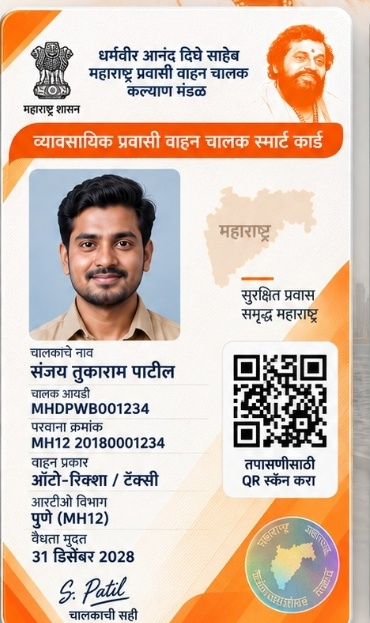
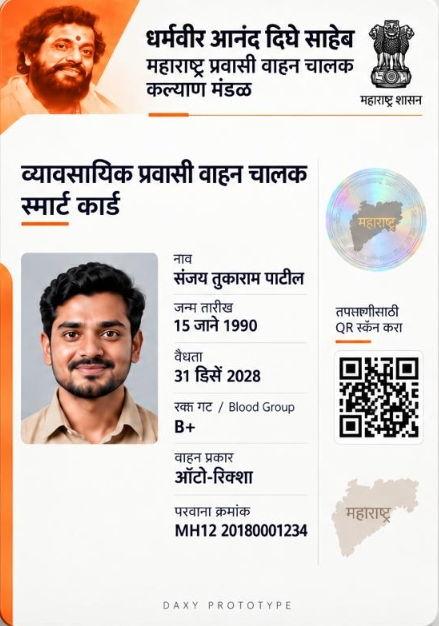
deploy: cac47614764fe9f7215d6f3e30e66ccbfaba18a7

diff --git a/index.html b/index.html
@@ -6,7 +6,10 @@
 <meta name="theme-color" content="#F5F6F3">
 <meta name="color-scheme" content="light">
 <title>SmartCard Member Verification — Daxy Prototype</title>
-<style>:root{--page:#f5f6f3;--surface:#fff;--ink:#111821;--ink-2:#2b3642;--muted:#717b84;--muted-2:#949ca3;--line:#e6e9e4;--line-strong:#d9ddd7;--navy:#102a43;--green:#13784b;--green-bg:#edf8f2;--green-line:#cae8d7;--amber:#a96308;--amber-bg:#fff6e8;--r-lg:20px;--r-md:12px;--shadow:0 10px 28px #1222310e}*{box-sizing:border-box}html{background:var(--page);scroll-behavior:smooth}body{min-height:100vh;color:var(--ink);background:var(--page);-webkit-font-smoothing:antialiased;text-rendering:optimizelegibility;margin:0;font-family:-apple-system,BlinkMacSystemFont,Segoe UI,Inter,Roboto,Noto Sans Devanagari,Arial,sans-serif}button{font:inherit}.page{width:min(100%,520px);padding:0 12px calc(28px + env(safe-area-inset-bottom));margin:0 auto}.tricolor{background:linear-gradient(90deg,#e88b22 0 33.33%,#fff 33.33% 66.66%,#16834f 66.66%);height:3px;margin:0 -12px 12px;box-shadow:0 1px #00000008}.header{grid-template-columns:46px 1fr 46px;align-items:center;gap:10px;padding:4px 2px 14px;display:grid}.emblem{border:1px solid var(--line-strong);background:#fff;border-radius:50%;place-items:center;width:46px;height:46px;display:grid;overflow:hidden}.emblem img{object-fit:contain;width:100%;height:100%}.board{text-align:center;min-width:0}.board .mr{color:var(--navy);letter-spacing:-.15px;font-size:12px;font-weight:800;line-height:1.22}.board .en{color:var(--muted);letter-spacing:.36px;text-transform:uppercase;margin-top:4px;font-size:8px;line-height:1.2}.dighe{object-fit:cover;width:46px;height:46px;box-shadow:0 0 0 1px var(--line-strong);background:#eaece8;border:2px solid #fff;border-radius:50%}.card{background:var(--surface);border:1px solid var(--line);border-radius:var(--r-lg);box-shadow:var(--shadow)}.verify{padding:16px}.verifyTop{border-bottom:1px solid var(--line);justify-content:space-between;align-items:center;gap:10px;padding-bottom:14px;display:flex}.verifiedBadge{color:var(--green);letter-spacing:.15px;text-transform:uppercase;align-items:center;gap:8px;font-size:12px;font-weight:850;display:inline-flex}.check{color:#fff;background:var(--green);width:22px;height:22px;box-shadow:0 0 0 4px var(--green-bg);border-radius:50%;place-items:center;display:grid}.check svg{width:13px;height:13px}.liveRecord{color:var(--muted);font-variant-numeric:tabular-nums;white-space:nowrap;font-size:10px}.identity{grid-template-columns:92px minmax(0,1fr);align-items:flex-start;gap:14px;padding:16px 0 14px;display:grid}.photo{aspect-ratio:3/4;border-radius:var(--r-md);border:1px solid var(--line-strong);background:linear-gradient(145deg,#e9edef,#cbd3d8);flex-shrink:0;width:92px;position:relative;overflow:hidden}.photo img{object-fit:cover;width:100%;height:100%;display:block}.photo svg{width:100%;height:100%;display:none}.photoMark{color:#fff;letter-spacing:.45px;text-transform:uppercase;-webkit-backdrop-filter:blur(8px);backdrop-filter:blur(8px);background:#111821b8;border-radius:6px;padding:4px 5px;font-size:7px;line-height:1;position:absolute;bottom:5px;right:5px}.name{letter-spacing:-.58px;color:#0f1720;font-size:23px;font-weight:820;line-height:1.05}.name-en{color:var(--muted);margin-top:2px;font-size:13.5px;font-weight:600}.idline{color:var(--muted);font-variant-numeric:tabular-nums;margin-top:7px;font-size:11px}.idline b{color:var(--ink-2);font-weight:750}.chips{flex-wrap:wrap;gap:6px;margin-top:11px;display:flex}.chip{border:1px solid var(--line);color:#48545f;background:#fafbf9;border-radius:999px;align-items:center;min-height:25px;padding:0 8px;font-size:9.5px;font-weight:700;display:inline-flex}.chip.active{background:var(--green-bg);border-color:var(--green-line);color:var(--green)}.details{border-top:1px solid var(--line);padding-top:2px}.row{border-bottom:1px solid var(--line);grid-template-columns:1fr 1fr;gap:16px;padding:12px 0;display:grid}.row:last-child{border-bottom:0;padding-bottom:4px}.item{min-width:0}.label{text-transform:uppercase;letter-spacing:.68px;color:var(--muted-2);margin-bottom:6px;font-size:8.5px;font-weight:800;line-height:1}.value{color:var(--ink-2);word-break:break-word;font-size:12.5px;font-weight:730;line-height:1.25}.value.green{color:var(--green)}.integrity{border:1px solid var(--green-line);border-radius:var(--r-md);background:var(--green-bg);align-items:flex-start;gap:10px;margin-top:13px;padding:11px 12px;display:flex}.integrityIcon{width:24px;height:24px;color:var(--green);flex:none;place-items:center;display:grid}.integrityIcon svg{width:18px;height:18px}.integrity strong{color:#125c3d;margin-bottom:2px;font-size:10.5px;display:block}.integrity p{color:#527060;margin:0;font-size:9.5px;line-height:1.35}.videoCard{margin-top:10px;overflow:hidden}.videoHead{justify-content:space-between;align-items:flex-start;gap:12px;padding:14px 15px 12px;display:flex}.videoHead h2{color:var(--navy);letter-spacing:-.12px;margin:0;font-size:13px;line-height:1.2}.videoHead p{color:var(--muted);margin:4px 0 0;font-size:9.5px;line-height:1.35}.officialTag{background:var(--amber-bg);color:var(--amber);text-transform:uppercase;letter-spacing:.35px;border:1px solid #eadcc4;border-radius:999px;flex:none;padding:5px 7px;font-size:8.5px;font-weight:800}.videoStage{aspect-ratio:16/9;background:#08131f;position:relative;overflow:hidden}.videoStage video{object-fit:cover;background:#08131f;width:100%;height:100%;display:block}.poster{color:#fff;cursor:pointer;background:linear-gradient(#07121d0d 15%,#07121ddb 100%);flex-direction:column;justify-content:flex-end;padding:16px;transition:opacity .2s;display:flex;position:absolute;inset:0}.poster.hide{opacity:0;pointer-events:none}.posterEyebrow{text-transform:uppercase;letter-spacing:.8px;color:#c9d5df;margin-bottom:5px;font-size:8.5px;font-weight:750}.posterTitle{letter-spacing:-.25px;max-width:72%;font-size:17px;font-weight:780;line-height:1.08}.play{color:#0b2239;cursor:pointer;background:#fffffff2;border:0;border-radius:50%;place-items:center;width:52px;height:52px;display:grid;position:absolute;top:50%;left:50%;transform:translate(-50%,-50%);box-shadow:0 8px 30px #00000040}.play svg{width:20px;height:20px;margin-left:2px}.videoFoot{justify-content:space-between;align-items:center;gap:14px;padding:12px 15px 13px;display:flex}.videoFoot strong{color:var(--ink-2);font-size:10.5px;display:block}.videoFoot span{color:var(--muted);margin-top:2px;font-size:8.8px;line-height:1.3;display:block}.dynamic{color:var(--navy);white-space:nowrap;font-size:8.5px;font-weight:800}.notice{color:#707980;align-items:flex-start;gap:8px;padding:12px 3px 0;font-size:8.8px;line-height:1.4;display:flex}.notice svg{flex:none;width:15px;height:15px;margin-top:1px}.footer{text-align:center;color:#91989d;padding:20px 8px 0;font-size:8.5px;line-height:1.55}.footer b{color:#69737b;font-weight:750}.prototype{text-transform:uppercase;letter-spacing:.9px;color:#8b928d;border:1px dashed #c7cbc5;border-radius:6px;margin-top:7px;padding:4px 7px;font-size:7.5px;display:inline-block}@media (width>=460px){.page{padding-left:16px;padding-right:16px}.tricolor{margin-left:-16px;margin-right:-16px}.verify{padding:18px}.videoHead,.videoFoot{padding-left:17px;padding-right:17px}}@media (width<=350px){.board .en{display:none}.name{font-size:20px}.identity{grid-template-columns:82px 1fr}.photo{width:82px}.row{gap:10px}.verifiedBadge{font-size:11px}}@media (prefers-reduced-motion:no-preference){.card{animation:.35s both rise}.videoCard{animation-delay:50ms}@keyframes rise{0%{opacity:0;transform:translateY(5px)}to{opacity:1;transform:none}}}@media print{body{background:#fff}.page{max-width:520px}.card{box-shadow:none}.videoCard,.notice{display:none}}</style>
+<link rel="preconnect" href="https://fonts.googleapis.com">
+<link rel="preconnect" href="https://fonts.gstatic.com" crossorigin>
+<link href="https://fonts.googleapis.com/css2?family=Mukta:wght@400;500;600;700;800&family=Noto+Sans+Devanagari:wght@400;500;600;700;800&display=swap" rel="stylesheet">
+<style>:root{--page:#f5f6f3;--surface:#fff;--ink:#111821;--ink-2:#2b3642;--muted:#717b84;--muted-2:#949ca3;--line:#e6e9e4;--line-strong:#d9ddd7;--navy:#102a43;--green:#13784b;--green-bg:#edf8f2;--green-line:#cae8d7;--amber:#a96308;--amber-bg:#fff6e8;--r-lg:20px;--r-md:12px;--shadow:0 10px 28px #1222310e}*{box-sizing:border-box}html{background:var(--page);scroll-behavior:smooth}body{min-height:100vh;color:var(--ink);background:var(--page);-webkit-font-smoothing:antialiased;text-rendering:optimizelegibility;margin:0;font-family:Mukta,Noto Sans Devanagari,-apple-system,BlinkMacSystemFont,Segoe UI,Roboto,sans-serif}button{font:inherit}.page{width:min(100%,960px);padding:0 12px calc(28px + env(safe-area-inset-bottom));margin:0 auto}.tricolor{background:linear-gradient(90deg,#e88b22 0 33.33%,#fff 33.33% 66.66%,#16834f 66.66%);height:3px;margin:0 -12px 12px;box-shadow:0 1px #00000008}.header{grid-template-columns:46px 1fr 46px;align-items:center;gap:10px;width:100%;max-width:520px;margin:0 auto;padding:4px 2px 14px;display:grid}.emblem{border:1px solid var(--line-strong);background:#fff;border-radius:50%;place-items:center;width:46px;height:46px;display:grid;overflow:hidden}.emblem img{object-fit:contain;width:100%;height:100%}.board{text-align:center;min-width:0}.board .mr{color:var(--navy);letter-spacing:-.15px;font-size:12px;font-weight:800;line-height:1.22}.board .en{color:var(--muted);letter-spacing:.36px;text-transform:uppercase;margin-top:4px;font-size:8px;line-height:1.2}.dighe{object-fit:cover;width:46px;height:46px;box-shadow:0 0 0 1px var(--line-strong);background:#eaece8;border:2px solid #fff;border-radius:50%}.card{background:var(--surface);border:1px solid var(--line);border-radius:var(--r-lg);box-shadow:var(--shadow)}.cardToggleWrap{background:#eaece8;border-radius:10px;justify-content:center;gap:3px;width:fit-content;max-width:100%;margin:0 auto 14px;padding:3px;display:flex}.cardTab{color:#525b63;cursor:pointer;white-space:nowrap;background:0 0;border:none;border-radius:8px;align-items:center;gap:5px;padding:6px 12px;font-family:inherit;font-size:11.5px;font-weight:700;transition:background .18s,color .18s;display:flex}.cardTab.active{color:#111827;background:#fff;box-shadow:0 1px 4px #00000014}.cardTab svg{width:13px;height:13px}.cardShowcaseWrap{flex-wrap:wrap;justify-content:center;align-items:flex-start;gap:20px;width:100%;margin:0 auto 16px;display:flex}.smartCardCanvas{aspect-ratio:439/626;box-sizing:border-box;-webkit-user-select:none;user-select:none;background:#fff;border:1px solid #d9dce1;border-radius:clamp(12px,4.1cqw,18px);flex:0 min(100%,439px);width:100%;min-width:0;max-width:439px;position:relative;overflow:hidden;box-shadow:0 10px 28px #11182714,0 2px 6px #11182708;container-type:inline-size}.scDigheCorner{pointer-events:none;z-index:1;width:41.5%;height:22.3%;position:absolute;top:0;left:0}.scDigheCorner img{object-fit:fill;width:100%;height:100%;display:block}.scHeaderBoard{z-index:2;position:absolute;top:2.6%;left:34%;right:16%}.scHeaderLeader{color:#111827;letter-spacing:-.2px;font-size:clamp(13px,4cqw,17.5px);font-weight:800;line-height:1.12}.scHeaderOrg{color:#111827;margin-top:clamp(2px,.6cqw,3px);font-size:clamp(10.5px,3.25cqw,14.2px);font-weight:700;line-height:1.15}.scHeaderLine{background:#f36c21;border-radius:2px;width:clamp(32px,10cqw,44px);height:clamp(2.5px,.8cqw,3.5px);margin-top:clamp(3px,1cqw,4.5px)}.scAshokaEmblem{z-index:2;text-align:right;width:12.5%;position:absolute;top:2.5%;right:4.2%}.scAshokaEmblem img{width:100%;height:auto;display:block}.scTitleWrap{z-index:2;width:63%;position:absolute;top:23.5%;left:6.38%}.scTitleText{color:#111827;letter-spacing:-.3px;font-size:clamp(15.5px,4.85cqw,21.2px);font-weight:800;line-height:1.12}.scTitleLine{background:#f36c21;border-radius:2px;width:clamp(32px,10cqw,44px);height:clamp(2.5px,.8cqw,3.5px);margin-top:clamp(4px,1.2cqw,5.5px)}.scHologram{aspect-ratio:1;object-fit:contain;z-index:2;width:23.2%;display:block;position:absolute;top:23.2%;left:73.2%}.scLeftStripe{z-index:3;background:#f36c21;border-radius:4px 4px 0 clamp(12px,4.1cqw,18px);width:clamp(8px,2.5cqw,11px);position:absolute;top:39.5%;bottom:0;left:0}.scDriverPhoto{aspect-ratio:137/182;z-index:2;background:#eef1f4;border:1px solid #e5e7eb;border-radius:clamp(6px,1.8cqw,8px);width:30.8%;position:absolute;top:39.5%;left:6.38%;overflow:hidden}.scDriverPhoto img{object-fit:cover;width:100%;height:100%;display:block}.scWatermark{opacity:.1;pointer-events:none;z-index:1;width:36%;position:absolute;top:46%;left:36%}.scDetailsCol{z-index:2;flex-direction:column;justify-content:space-between;width:32.8%;height:48.5%;display:flex;position:absolute;top:39.5%;left:39.2%}.scDetailRow{border-bottom:1px solid #f0f2f5;flex-direction:column;padding-bottom:clamp(1px,.4cqw,2.5px);display:flex}.scDetailRow:last-child{border-bottom:none;padding-bottom:0}.scDetailLabel{color:#4b5563;margin-bottom:1px;font-size:clamp(8.5px,2.6cqw,11.5px);font-weight:500;line-height:1.1}.scDetailValue{color:#111827;word-break:break-word;font-size:clamp(11.5px,3.4cqw,15px);font-weight:800;line-height:1.2}.scDetailValue.mono{font-variant-numeric:tabular-nums;font-family:inherit}.scVertDivider{z-index:2;background:#e5e7eb;width:1px;height:48.5%;position:absolute;top:39.5%;left:73%}.scQrWrap{text-align:center;z-index:2;flex-direction:column;align-items:center;width:23%;display:flex;position:absolute;top:41.5%;left:74%}.scQrInstruction{color:#111827;font-size:clamp(9px,2.7cqw,11.5px);font-weight:700;line-height:1.18}.scQrDash{background:#f36c21;border-radius:1px;width:clamp(16px,4.5cqw,20px);height:clamp(2px,.5cqw,2.5px);margin:3px auto 0}.scQrCard{aspect-ratio:1;z-index:2;background:#fff;border:1px solid #e5e7eb;border-radius:clamp(6px,1.8cqw,8px);justify-content:center;align-items:center;width:20.2%;padding:clamp(3px,.8cqw,4px);display:flex;position:absolute;top:49.5%;left:75.5%;box-shadow:0 1px 3px #00000005}.scQrCard img{object-fit:contain;width:100%;height:100%;display:block}.scMahaMap{z-index:2;width:21%;height:auto;display:block;position:absolute;top:73%;left:75%}.scFooterText{text-align:center;color:#9ca3af;letter-spacing:clamp(2.5px,.8cqw,3.8px);z-index:2;font-size:clamp(6.5px,1.8cqw,8px);font-weight:700;position:absolute;bottom:2.2%;left:0;right:0}.scBackHeaderBoard{z-index:2;position:absolute;top:2.6%;left:6.38%;right:16%}.scBackFeatures{z-index:2;flex-direction:column;justify-content:space-between;height:53.5%;display:flex;position:absolute;top:20.5%;left:6.38%;right:4.2%}.scBackRow{border-bottom:1px solid #f0f2f5;flex:1;align-items:center;gap:clamp(8px,2.6cqw,12px);padding-bottom:clamp(6px,1.6cqw,7.5px);display:flex}.scBackRow:last-child{border-bottom:none}.scBackIcon{color:#f36c21;background:#fed;border-radius:clamp(8px,2.5cqw,11px);flex:none;justify-content:center;align-items:center;width:clamp(34px,10.2cqw,45px);height:clamp(34px,10.2cqw,45px);display:flex}.scBackIcon svg{width:55%;height:55%;display:block}.scBackContent{flex:1;min-width:0}.scBackTitle{color:#111827;font-size:clamp(12px,3.6cqw,16px);font-weight:800;line-height:1.15}.scBackSub{color:#4b5563;margin-top:clamp(1px,.4cqw,2px);font-size:clamp(9px,2.7cqw,12px);font-weight:500;line-height:1.15}.scBackRight{text-align:center;border-left:1px solid #e5e7eb;flex:none;padding-left:clamp(8px,2.5cqw,12px)}.scBackRight.emergency{min-width:clamp(60px,17cqw,75px)}.scBackRight.personal{min-width:clamp(80px,24cqw,105px)}.scEmerNum{color:#f36c21;font-size:clamp(16px,4.8cqw,21px);font-weight:800;line-height:1}.scEmerLabel{color:#f36c21;margin-top:2px;font-size:clamp(9px,2.7cqw,12px);font-weight:700}.scPersonalNum{color:#111827;font-variant-numeric:tabular-nums;font-size:clamp(12.5px,3.7cqw,16px);font-weight:800;line-height:1}.scBridgeGraphic{z-index:2;height:18%;position:absolute;bottom:4.2%;left:0;right:0;overflow:hidden}.scBridgeGraphic img{object-fit:cover;object-position:center bottom;width:100%;height:100%;display:block}.scBackFooter{text-align:center;color:#9ca3af;letter-spacing:clamp(1px,.3cqw,1.5px);z-index:2;font-size:clamp(6px,1.7cqw,7.5px);font-weight:600;position:absolute;bottom:1.6%;left:0;right:0}.scBackFooter span{color:#d1d5db;margin:0 4px}.integrity{border:1px solid var(--green-line);border-radius:var(--r-md);background:var(--green-bg);align-items:flex-start;gap:10px;margin-top:13px;padding:11px 12px;display:flex}.integrityIcon{width:24px;height:24px;color:var(--green);flex:none;place-items:center;display:grid}.integrityIcon svg{width:18px;height:18px}.integrity strong{color:#125c3d;margin-bottom:2px;font-size:10.5px;display:block}.integrity p{color:#527060;margin:0;font-size:9.5px;line-height:1.35}.videoCard{margin-top:10px;overflow:hidden}.videoHead{justify-content:space-between;align-items:flex-start;gap:12px;padding:14px 15px 12px;display:flex}.videoHead h2{color:var(--navy);letter-spacing:-.12px;margin:0;font-size:13px;line-height:1.2}.videoHead p{color:var(--muted);margin:4px 0 0;font-size:9.5px;line-height:1.35}.officialTag{background:var(--amber-bg);color:var(--amber);text-transform:uppercase;letter-spacing:.35px;border:1px solid #eadcc4;border-radius:999px;flex:none;padding:5px 7px;font-size:8.5px;font-weight:800}.videoStage{aspect-ratio:16/9;background:#08131f;position:relative;overflow:hidden}.videoStage video{object-fit:cover;background:#08131f;width:100%;height:100%;display:block}.poster{color:#fff;cursor:pointer;background:linear-gradient(#07121d0d 15%,#07121ddb 100%);flex-direction:column;justify-content:flex-end;padding:16px;transition:opacity .2s;display:flex;position:absolute;inset:0}.poster.hide{opacity:0;pointer-events:none}.posterEyebrow{text-transform:uppercase;letter-spacing:.8px;color:#c9d5df;margin-bottom:5px;font-size:8.5px;font-weight:750}.posterTitle{letter-spacing:-.25px;max-width:72%;font-size:17px;font-weight:780;line-height:1.08}.play{color:#0b2239;cursor:pointer;background:#fffffff2;border:0;border-radius:50%;place-items:center;width:52px;height:52px;display:grid;position:absolute;top:50%;left:50%;transform:translate(-50%,-50%);box-shadow:0 8px 30px #00000040}.play svg{width:20px;height:20px;margin-left:2px}.videoFoot{justify-content:space-between;align-items:center;gap:14px;padding:12px 15px 13px;display:flex}.videoFoot strong{color:var(--ink-2);font-size:10.5px;display:block}.videoFoot span{color:var(--muted);margin-top:2px;font-size:8.8px;line-height:1.3;display:block}.dynamic{color:var(--navy);white-space:nowrap;font-size:8.5px;font-weight:800}.notice{color:#707980;align-items:flex-start;gap:8px;padding:12px 3px 0;font-size:8.8px;line-height:1.4;display:flex}.notice svg{flex:none;width:15px;height:15px;margin-top:1px}.footer{text-align:center;color:#91989d;padding:20px 8px 0;font-size:8.5px;line-height:1.55}.footer b{color:#69737b;font-weight:750}.prototype{text-transform:uppercase;letter-spacing:.9px;color:#8b928d;border:1px dashed #c7cbc5;border-radius:6px;margin-top:7px;padding:4px 7px;font-size:7.5px;display:inline-block}@media (width>=460px){.page{padding-left:16px;padding-right:16px}.tricolor{margin-left:-16px;margin-right:-16px}.verify{padding:18px}.videoHead,.videoFoot{padding-left:17px;padding-right:17px}}@media (width<=350px){.board .en{display:none}.name{font-size:20px}.identity{grid-template-columns:82px 1fr}.photo{width:82px}.row{gap:10px}.verifiedBadge{font-size:11px}}@media print{body{background:#fff}.page{max-width:520px}.card{box-shadow:none}.videoCard,.notice{display:none}}</style>
 </head>
 <body>
 <main class="page">
@@ -23,56 +26,179 @@
     <img class="dighe" src="./assets/anand-dighe-poster-CMV5kaGp.jpg" alt="Dharmaveer Anand Dighe Saheb" onerror="this.src='https://images.loksattaimg.com/2023/01/Dharmaveer-Anand-Dighe-Birth-Anniversary-13.jpg'" referrerpolicy="no-referrer">
   </header>
 
-  <section class="card verify" aria-label="SmartCard member verification">
-    <div class="verifyTop">
-      <div class="verifiedBadge">
-        <span class="check"><svg viewBox="0 0 24 24" fill="none" stroke="currentColor" stroke-width="3" stroke-linecap="round" stroke-linejoin="round"><path d="M5 12.5 9.2 17 19 7"/></svg></span>
-        <span id="verifyLabel">Verified Member</span>
-      </div>
-      <div class="liveRecord" id="verifyTime">Verified now</div>
-    </div>
+  <!-- Card View Mode Selector (Both Sides / Front / Back) -->
+  <div class="cardToggleWrap" role="tablist" aria-label="स्मार्ट कार्ड बाजू निवडा">
+    <button type="button" class="cardTab active" id="tabBoth" role="tab" aria-selected="true" onclick="switchCardMode('both')">
+      <svg viewBox="0 0 24 24" fill="none" stroke="currentColor" stroke-width="2"><rect x="2" y="5" width="9" height="14" rx="1.5"/><rect x="13" y="5" width="9" height="14" rx="1.5"/></svg>
+      दोन्ही बाजू (Both Sides)
+    </button>
+    <button type="button" class="cardTab" id="tabFront" role="tab" aria-selected="false" onclick="switchCardMode('front')">
+      <svg viewBox="0 0 24 24" fill="none" stroke="currentColor" stroke-width="2"><rect x="3" y="4" width="18" height="16" rx="2"/><path d="M7 8h10M7 12h4M7 16h6"/></svg>
+      समोरची बाजू (Front)
+    </button>
+    <button type="button" class="cardTab" id="tabBack" role="tab" aria-selected="false" onclick="switchCardMode('back')">
+      <svg viewBox="0 0 24 24" fill="none" stroke="currentColor" stroke-width="2"><rect x="3" y="4" width="18" height="16" rx="2"/><path d="m9 12 2 2 4-4"/></svg>
+      मागील बाजू (Back)
+    </button>
+  </div>
 
-    <div class="identity">
-      <div class="photo" aria-label="Member photograph">
-        <img id="memberPhoto" src="./assets/driver-photo-DT9j2TrH.jpg" alt="Member photograph" onerror="this.src='./public/assets/driver-photo.jpg'">
-        <span class="photoMark">Photo ID</span>
+  <!-- Rebuilt Digital ID Card Showcase: Front and Back Side by Side (1:1 Reference Match) -->
+  <div class="cardShowcaseWrap" id="cardShowcase">
+    <!-- FRONT CARD -->
+    <section class="card smartCardCanvas" id="frontCard" aria-label="व्यावसायिक प्रवासी वाहन चालक स्मार्ट कार्ड (समोरची बाजू)">
+      <div class="scDigheCorner">
+        <img src="./assets/card-dighe-corner-CvaEag45.png" alt="धर्मवीर आनंद दिघे साहेब" onerror="this.src='./public/assets/card-dighe-corner.png'">
       </div>
-      <div>
-        <div class="name" id="name">संजय तुकाराम पाटील</div>
-        <div class="name-en" id="nameEn">Sanjay Tukaram Patil</div>
-        <div class="idline">SmartCard ID&nbsp; <b id="member">MHDPWB001234</b></div>
-        <div class="chips">
-          <span class="chip active" id="membership">Active</span>
-          <span class="chip" id="vehicleType">ऑटो-रिक्षा / टॅक्सी</span>
-          <span class="chip" id="districtChip">पुणे (MH12)</span>
+      <div class="scHeaderBoard">
+        <div class="scHeaderLeader">धर्मवीर आनंद दिघे साहेब</div>
+        <div class="scHeaderOrg">महाराष्ट्र प्रवासी वाहन चालक<br>कल्याण मंडळ</div>
+        <div class="scHeaderLine" aria-hidden="true"></div>
+      </div>
+      <div class="scAshokaEmblem">
+        <img src="./assets/ashoka-emblem-jx7s1bLX.png" alt="महाराष्ट्र शासन" onerror="this.src='./public/assets/ashoka-emblem.png'">
+      </div>
+      <div class="scTitleWrap">
+        <div class="scTitleText">व्यावसायिक प्रवासी वाहन चालक<br>स्मार्ट कार्ड</div>
+        <div class="scTitleLine" aria-hidden="true"></div>
+      </div>
+      <img class="scHologram" src="./assets/card-hologram-CwZs2oBi.png" alt="सुरक्षा होलोग्राम" onerror="this.src='./public/assets/card-hologram.png'">
+      <div class="scLeftStripe" aria-hidden="true"></div>
+      <div class="scDriverPhoto">
+        <img id="memberPhoto" src="./assets/driver-exact-TEBp3Oqv.jpg" alt="संजय तुकाराम पाटील" onerror="this.src='./assets/driver-photo.jpg'">
+      </div>
+      <img class="scWatermark" src="./assets/maharashtra-watermark-DdXs4Ku3.png" alt="" aria-hidden="true">
+      <div class="scDetailsCol">
+        <div class="scDetailRow">
+          <div class="scDetailLabel">नाव</div>
+          <div class="scDetailValue" id="name">संजय तुकाराम पाटील</div>
+        </div>
+        <div class="scDetailRow">
+          <div class="scDetailLabel">जन्म तारीख</div>
+          <div class="scDetailValue mono" id="dob">15 जाने 1990</div>
+        </div>
+        <div class="scDetailRow">
+          <div class="scDetailLabel">वैधता</div>
+          <div class="scDetailValue mono" id="valid">31 डिसें 2028</div>
+        </div>
+        <div class="scDetailRow">
+          <div class="scDetailLabel">रक्त गट / Blood Group</div>
+          <div class="scDetailValue" id="bloodGroup">B+</div>
+        </div>
+        <div class="scDetailRow">
+          <div class="scDetailLabel">वाहन प्रकार</div>
+          <div class="scDetailValue" id="vehicleType">ऑटो-रिक्षा</div>
+        </div>
+        <div class="scDetailRow">
+          <div class="scDetailLabel">परवाना क्रमांक</div>
+          <div class="scDetailValue mono" id="badge">MH12 20180001234</div>
         </div>
       </div>
-    </div>
+      <div class="scVertDivider" aria-hidden="true"></div>
+      <div class="scQrWrap">
+        <div class="scQrInstruction">तपासणीसाठी<br>QR स्कॅन करा</div>
+        <div class="scQrDash" aria-hidden="true"></div>
+      </div>
+      <div class="scQrCard">
+        <img class="scQrImg" src="./assets/card-qr-BIl55NCs.png" alt="QR कोड" onerror="this.src='./public/assets/card-qr.png'">
+      </div>
+      <img class="scMahaMap" src="./assets/card-maha-map-D-wMaXof.png" alt="महाराष्ट्र" onerror="this.src='./public/assets/card-maha-map.png'">
+      <div class="scFooterText">DAXY PROTOTYPE</div>
+    </section>
 
-    <div class="details">
-      <div class="row">
-        <div class="item"><div class="label">RTO</div><div class="value" id="rto">MH-12 · Pune</div></div>
-        <div class="item"><div class="label">Driver / Badge No.</div><div class="value" id="badge">MH12 20180001234</div></div>
+    <!-- BACK CARD -->
+    <section class="card smartCardCanvas" id="backCard" aria-label="व्यावसायिक प्रवासी वाहन चालक स्मार्ट कार्ड (मागील बाजू)">
+      <div class="scBackHeaderBoard">
+        <div class="scHeaderLeader">धर्मवीर आनंद दिघे साहेब</div>
+        <div class="scHeaderOrg">महाराष्ट्र प्रवासी वाहन चालक<br>कल्याण मंडळ</div>
+        <div class="scHeaderLine" aria-hidden="true"></div>
       </div>
-      <div class="row">
-        <div class="item"><div class="label">Aadhaar Card No.</div><div class="value" id="aadhaar">**** **** 6789</div></div>
-        <div class="item"><div class="label">Date of Birth</div><div class="value" id="dob">15 Jun 1990</div></div>
+      <div class="scAshokaEmblem">
+        <img src="./assets/ashoka-emblem-jx7s1bLX.png" alt="महाराष्ट्र शासन" onerror="this.src='./public/assets/ashoka-emblem.png'">
       </div>
-      <div class="row">
-        <div class="item"><div class="label">Card Issue Date</div><div class="value" id="issueDate">01 Jun 2024</div></div>
-        <div class="item"><div class="label">Membership Validity</div><div class="value green" id="valid">31 Dec 2028</div></div>
+      <div class="scBackFeatures">
+        <div class="scBackRow">
+          <div class="scBackIcon">
+            <svg viewBox="0 0 24 24" fill="currentColor"><path d="M12 12c2.21 0 4-1.79 4-4s-1.79-4-4-4-4 1.79-4 4 1.79 4 4 4zm0 2c-2.67 0-8 1.34-8 4v2h16v-2c0-2.66-5.33-4-8-4z"/></svg>
+          </div>
+          <div class="scBackContent">
+            <div class="scBackTitle">चालकाची माहिती</div>
+            <div class="scBackSub">नाव, पत्ता, वाहन तपशील</div>
+          </div>
+        </div>
+        <div class="scBackRow">
+          <div class="scBackIcon">
+            <svg viewBox="0 0 24 24" fill="currentColor"><path d="M14 2H6c-1.1 0-1.99.9-1.99 2L4 20c0 1.1.89 2 1.99 2H18c1.1 0 2-.9 2-2V8l-6-6zm2 16H8v-2h8v2zm0-4H8v-2h8v2zm-3-5V3.5L18.5 9H13z"/></svg>
+          </div>
+          <div class="scBackContent">
+            <div class="scBackTitle">शासकीय योजना व लाभ</div>
+            <div class="scBackSub">कल्याणकारी योजना, विमा, आर्थिक मदत</div>
+          </div>
+        </div>
+        <div class="scBackRow">
+          <div class="scBackIcon">
+            <svg viewBox="0 0 24 24" fill="currentColor"><path d="M8 5v14l11-7z"/></svg>
+          </div>
+          <div class="scBackContent">
+            <div class="scBackTitle">माहिती व जनजागृती व्हिडीओ</div>
+            <div class="scBackSub">रस्ते सुरक्षा, नियम, मार्गदर्शन</div>
+          </div>
+        </div>
+        <div class="scBackRow">
+          <div class="scBackIcon">
+            <svg viewBox="0 0 24 24" fill="currentColor"><path d="M6.62 10.79c1.44 2.83 3.76 5.14 6.59 6.59l2.2-2.2c.27-.27.67-.36 1.02-.24 1.12.37 2.33.57 3.57.57.55 0 1 .45 1 1V20c0 .55-.45 1-1 1-9.39 0-17-7.61-17-17 0-.55.45-1 1-1h3.5c.55 0 1 .45 1 1 0 1.25.2 2.45.57 3.57.11.35.03.74-.25 1.02l-2.2 2.2z"/></svg>
+          </div>
+          <div class="scBackContent">
+            <div class="scBackTitle">आपत्कालीन संपर्क</div>
+            <div class="scBackSub">अपघात / वैद्यकीय / तांत्रिक मदत</div>
+          </div>
+          <div class="scBackRight emergency">
+            <div class="scEmerNum">112</div>
+            <div class="scEmerLabel">(सर्व सेवा)</div>
+          </div>
+        </div>
+        <div class="scBackRow">
+          <div class="scBackIcon">
+            <svg viewBox="0 0 24 24" fill="currentColor"><path d="M16 11c1.66 0 2.99-1.34 2.99-3S17.66 5 16 5c-1.66 0-3 1.34-3 3s1.34 3 3 3zm-8 0c1.66 0 2.99-1.34 2.99-3S9.66 5 8 5C6.34 5 5 6.34 5 8s1.34 3 3 3zm0 2c-2.33 0-7 1.17-7 3.5V19h14v-2.5c0-2.33-4.67-3.5-7-3.5zm8 0c-.29 0-.62.02-.97.05 1.16.84 1.97 1.97 1.97 3.45V19h6v-2.5c0-2.33-4.67-3.5-7-3.5z"/></svg>
+          </div>
+          <div class="scBackContent">
+            <div class="scBackTitle">आपत्कालीन संपर्क (वैयक्तिक)</div>
+            <div class="scBackSub">Emergency Contact</div>
+          </div>
+          <div class="scBackRight personal">
+            <div class="scPersonalNum">98765 43210</div>
+          </div>
+        </div>
       </div>
-      <div class="row">
-        <div class="item"><div class="label">Card Number</div><div class="value" id="cardNumber">MHDPWB25000123</div></div>
-        <div class="item"><div class="label">Record Status</div><div class="value green" id="recordStatus">Valid & Active</div></div>
+      <div class="scBridgeGraphic">
+        <img src="./assets/card-back-bridge-DDZrLGE_.png" alt="Maharashtra Moves Together" onerror="this.src='./public/assets/card-back-bridge.png'">
       </div>
-    </div>
+      <div class="scFooterText scBackFooter">
+        DAXY PROTOTYPE <span>|</span> केवळ संकल्पना नमुना <span>|</span> Not Government Issued
+      </div>
+    </section>
+  </div>
 
-    <div class="integrity">
-      <div class="integrityIcon"><svg viewBox="0 0 24 24" fill="none" stroke="currentColor" stroke-width="2"><path d="M12 3 5 6v5c0 4.8 2.9 8.1 7 10 4.1-1.9 7-5.2 7-10V6l-7-3Z"/><path d="m8.8 12 2.1 2.2 4.4-4.5"/></svg></div>
-      <div><strong>QR verification matched</strong><p>This SmartCard record is shown as active in the verification prototype. Always scan the physical card QR for field verification.</p></div>
+  <!-- Verification Result Banner: Preserves instant field scan feedback and search params -->
+  <div class="integrity" id="verificationResult">
+    <div class="integrityIcon">
+      <svg viewBox="0 0 24 24" fill="none" stroke="currentColor" stroke-width="2">
+        <path d="M12 3 5 6v5c0 4.8 2.9 8.1 7 10 4.1-1.9 7-5.2 7-10V6l-7-3Z"/>
+        <path d="m8.8 12 2.1 2.2 4.4-4.5"/>
+      </svg>
     </div>
-  </section>
+    <div>
+      <strong><span id="verifyLabel">Verified Member</span> · <span id="recordStatus" class="green">Valid & Active</span></strong>
+      <p>SmartCard ID: <b id="member">MHDPWB001234</b> · RTO: <span id="rto">MH-12 · Pune</span> · <span id="verifyTime">Verified now</span></p>
+      <div style="display:none;" aria-hidden="true">
+        <span id="membership" class="active">Active</span>
+        <span id="nameEn">Sanjay Tukaram Patil</span>
+        <span id="districtChip">पुणे (MH12)</span>
+        <span id="aadhaar">**** **** 6789</span>
+        <span id="issueDate">01 Jun 2024</span>
+        <span id="cardNumber">MHDPWB25000123</span>
+      </div>
+    </div>
+  </div>
 
   <section class="card videoCard" id="videoSection" aria-label="Official video content">
     <div class="videoHead">
@@ -151,6 +277,44 @@ playBtn.addEventListener('click',startVideo);
 poster.addEventListener('click',startVideo);
 video.addEventListener('play',()=>poster.classList.add('hide'));
 video.addEventListener('ended',()=>poster.classList.remove('hide'));
+
+function switchCardMode(mode) {
+  const front = document.getElementById('frontCard');
+  const back = document.getElementById('backCard');
+  const tabBoth = document.getElementById('tabBoth');
+  const tabF = document.getElementById('tabFront');
+  const tabB = document.getElementById('tabBack');
+  if (!front || !back) return;
+
+  [tabBoth, tabF, tabB].forEach(t => {
+    if (t) { t.classList.remove('active'); t.setAttribute('aria-selected', 'false'); }
+  });
+
+  if (mode === 'front') {
+    front.style.display = 'block';
+    back.style.display = 'none';
+    if (tabF) { tabF.classList.add('active'); tabF.setAttribute('aria-selected', 'true'); }
+  } else if (mode === 'back') {
+    front.style.display = 'none';
+    back.style.display = 'block';
+    if (tabB) { tabB.classList.add('active'); tabB.setAttribute('aria-selected', 'true'); }
+  } else {
+    front.style.display = 'block';
+    back.style.display = 'block';
+    if (tabBoth) { tabBoth.classList.add('active'); tabBoth.setAttribute('aria-selected', 'true'); }
+  }
+}
+function switchCardSide(side) {
+  switchCardMode(side);
+}
+const sideParam = qs.get('side');
+if (sideParam === 'front') {
+  switchCardMode('front');
+} else if (sideParam === 'back') {
+  switchCardMode('back');
+} else {
+  switchCardMode('both');
+}
 </script>
 </body>
 </html>
